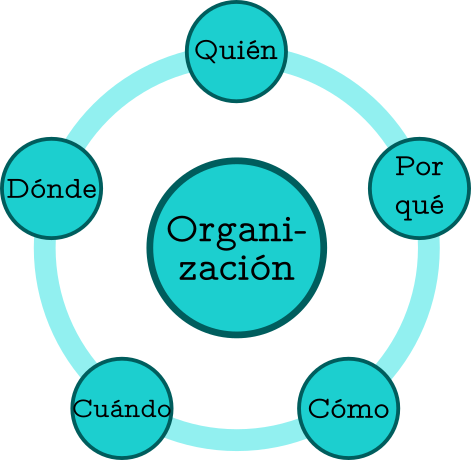
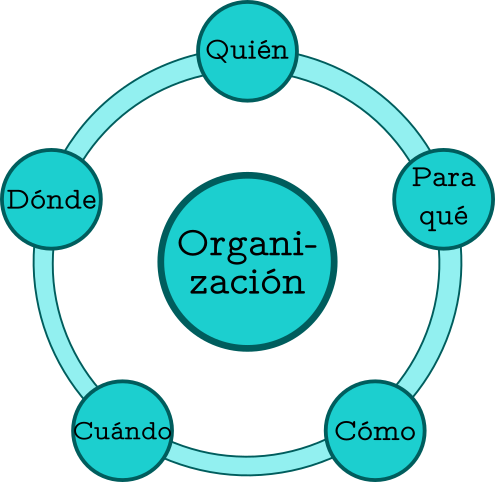
Actualización Psicología Organizaciones ST1

diff --git a/PsiOrg-ST1.html b/PsiOrg-ST1.html
@@ -47,13 +47,58 @@
     <div style="position: absolute; bottom: -50px; margin-left: 0px; width: 100%; <center><a rel="license" href="http://creativecommons.org/licenses/by/4.0/"><img alt="Llicència de Creative Commons" style="border-width:0" src="img/cc-by.png" /></a></center>
     </div>
 </section>
+<section id="las-organizaciones-existen-para" class="slide level2">
+<h2>Las organizaciones existen para</h2>
+<div>
+<ul>
+<li>Aunar los recursos para lograr los objetivos y resultados deseados</li>
+<li>Producir bienes y servicios de manera eficiente</li>
+<li>Facilitar la innovación</li>
+<li>Utilizar las tecnologías modernas de fabricación e información</li>
+<li>Adaptarse e influir en un entorno cambiante</li>
+<li>Crear valor para los propietarios, clientes y empleados</li>
+<li>Dar cabida a los desafíos actuales de la diversidad, la ética, y la motivación y la coordinación de los empleados</li>
+</ul>
+</div>
+<p><span class="citation" data-cites="daft-Organizationtheory-2010">Daft (2010, p. 14)</span></p>
+</section>
 <section id="descripción" class="slide level2">
 <h2>Descripción</h2>
 <p><img data-src="imagenes-organizaciones/Descripcion.png" /></p>
+<aside class="notes">
+<ul>
+<li>Quién: Personas y grupos que realizan actividades. Se articulan a través de normas y valores.</li>
+<li>Para qué: Orientación a objetivos y metas.</li>
+<li>Cómo: Diferenciación de funciones. Coordinación relacionada intencionada.</li>
+<li>Cuándo: Duraderas en el tiempo.</li>
+<li>Dónde: Inmersas en un medio social.</li>
+</ul>
+</aside>
 </section>
 <section id="estructura" class="slide level2">
 <h2>Estructura</h2>
-<p><img data-src="imagenes-organizaciones/Estructura.png" /></p>
+<blockquote>
+<p>La estructura organizativa se refiere a la manera formal e informal en que las personas, las tareas y otros recursos de la organización están <span class="fosforito">configurados</span> y <span class="fosforito">coordinados</span>.<br />
+<span class="citation" data-cites="kottke-OrganizationalStructure-2007">Kottke &amp; Agars (2007 p, 585)</span>]</p>
+</blockquote>
+</section>
+<section id="estructura-1" class="slide level2">
+<h2>Estructura</h2>
+<figure>
+<img data-src="imagenes-organizaciones/Estructura.png" alt="" /><figcaption>Adaptado de <span class="citation" data-cites="mintzberg-Structurefives-1993">Mintzberg (1993, p. 11)</span></figcaption>
+</figure>
+<aside class="notes">
+<ul>
+<li>Núcleo de operaciones: realiza la actividad principal de la organización.</li>
+<li>Ápice estratégico: primera división del trabajo. Gobiernan la organización. Línea media: aumento de complejidad de la organización. Mandos intermedios. Tecnoestructura: estandarizar procesos de trabajo. Técnicos expertos en la actividad principal de la organización. Personal de apoyo: no directamente vinculados con la actividad principal. Ideología: fuerza motora para la cooperación en la organización.</li>
+</ul>
+</aside>
+</section>
+<section id="tipos-de-organizaciones" class="slide level2">
+<h2>Tipos de organizaciones</h2>
+<figure>
+<img data-src="imagenes-organizaciones/TiposOrganizaciones.png" alt="" /><figcaption>Adaptado de <span class="citation" data-cites="mintzberg-Structurefives-1993">Mintzberg (1993)</span></figcaption>
+</figure>
 </section>
 <section id="configuraciones" class="slide level2 peque">
 <h2>Configuraciones organizacionales</h2>
@@ -127,8 +172,29 @@
 </tbody>
 </table>
 </section>
-<section><section id="referencias" class="title-slide slide level1 center"><h1>Referencias</h1></section><section id="section" class="slide level2 scrollable peque">
+<section id="la-curva-de-greiner" class="title-slide slide level1"><h1>La curva de Greiner</h1><figure>
+<img data-src="imagenes-organizaciones/FasesGreiner.png" width="600" alt="" /><figcaption><span class="citation" data-cites="greiner-EvolutionRevolution-1994">Greiner (1994)</span></figcaption>
+</figure>
+<aside class="notes">
+<p>Fase 1: etapa de emprendimiento Fase 2: Etapa de colectividad Fase 4: Etapa de formalización Fase 5: Etapa de elaboración</p>
+<p>Daft las explica como 1, 2, 3 y 4 <span class="citation" data-cites="daft-Organizationtheory-2010">Daft (2010)</span></p>
+</aside></section>
+<section><section id="referencias" class="title-slide slide level1 center"><h1>Referencias</h1></section><section id="section" class="slide level2 unnumbered scrollable peque">
 <h2></h2>
+<div id="refs" class="references" role="doc-bibliography">
+<div id="ref-daft-Organizationtheory-2010">
+<p>Daft, R. L. (2010). <em>Organization theory and design</em> (10th ed). Mason, Ohio: South-Western Cengage Learning.</p>
+</div>
+<div id="ref-greiner-EvolutionRevolution-1994">
+<p>Greiner, L. E. (1994). Evolution and Revolution as Organizations Grow. In D. Asch &amp; C. Browman (Eds.), <em>Readings in strategic management</em> (Reprinted, pp. 373–387). Houndmills: Macmillan.</p>
+</div>
+<div id="ref-kottke-OrganizationalStructure-2007">
+<p>Kottke, J. L., &amp; Agars, M. D. (2007). Organizational Structure. In S. G. Rogelberg (Ed.), <em>Encyclopedia of industrial and organizational psychology</em> (pp. 585–589). Thousand Oaks, Calif: SAGE.</p>
+</div>
+<div id="ref-mintzberg-Structurefives-1993">
+<p>Mintzberg, H. (1993). <em>Structure in fives: Designing effective organizations</em> (2. rev). Upper Saddle River, NJ: Prentice Hall.</p>
+</div>
+</div>
 </section></section>
     </div>
   </div>

diff --git a/PsiOrg-ST1.md b/PsiOrg-ST1.md
@@ -11,14 +11,54 @@ csl: apa.csl
 lateral-menu: 'True'
 ...
 
+## Las organizaciones existen para
+
+::: nonincremental
+- Aunar los recursos para lograr los objetivos y resultados deseados
+- Producir bienes y servicios de manera eficiente
+- Facilitar la innovación
+- Utilizar las tecnologías modernas de fabricación e información
+- Adaptarse e influir en un entorno cambiante
+- Crear valor para los propietarios, clientes y empleados
+- Dar cabida a los desafíos actuales de la diversidad, la ética, y la motivación y la coordinación de los empleados
+:::
+
+
+@daft-Organizationtheory-2010[, p. 14]
 
 ## Descripción
 
 ![](imagenes-organizaciones/Descripcion.png)
 
+::: notes
+- Quién: Personas y grupos que realizan actividades. Se articulan a través de normas y valores.
+- Para qué: Orientación a objetivos y metas.
+- Cómo: Diferenciación de funciones. Coordinación relacionada intencionada.
+- Cuándo: Duraderas en el tiempo.
+- Dónde: Inmersas en un medio social.
+:::
+
 ## Estructura
 
-![](imagenes-organizaciones/Estructura.png)
+>La estructura organizativa se refiere a la manera formal e informal en que las personas, las tareas y otros recursos de la organización están [configurados]{.fosforito} y [coordinados]{.fosforito}.\
+@kottke-OrganizationalStructure-2007[p, 585]]
+
+## Estructura
+
+![Adaptado de @mintzberg-Structurefives-1993[11]](imagenes-organizaciones/Estructura.png)
+
+::: notes
+- Núcleo de operaciones: realiza la actividad principal de la organización.
+- Ápice estratégico: primera división del trabajo. Gobiernan la organización.
+Línea media: aumento de complejidad de la organización. Mandos intermedios.
+Tecnoestructura: estandarizar procesos de trabajo. Técnicos expertos en la actividad principal de la organización.
+Personal de apoyo: no directamente vinculados con la actividad principal.
+Ideología: fuerza motora para la cooperación en la organización.
+:::
+
+## Tipos de organizaciones
+
+![Adaptado de @mintzberg-Structurefives-1993](imagenes-organizaciones/TiposOrganizaciones.png)
 
 ## Configuraciones organizacionales {#configuraciones .peque}
 
@@ -32,6 +72,20 @@ lateral-menu: 'True'
 | **Misionera**               | Organización misionera            | Estandarización de normas               | Ideología                      | Descentralización                     |
 |                         | Organización política             | Ninguna                                 | Ninguna                        | Varia                                  |
 
+# La curva de Greiner
+
+![ @greiner-EvolutionRevolution-1994 ](imagenes-organizaciones/FasesGreiner.png){width=600}
+
+::: notes
+Fase 1: etapa de emprendimiento
+Fase 2: Etapa de colectividad
+Fase 4: Etapa de formalización
+Fase 5: Etapa de elaboración
+
+Daft las explica como 1, 2, 3 y 4
+@daft-Organizationtheory-2010
+
+:::
 
 # Referencias {.center}
 
